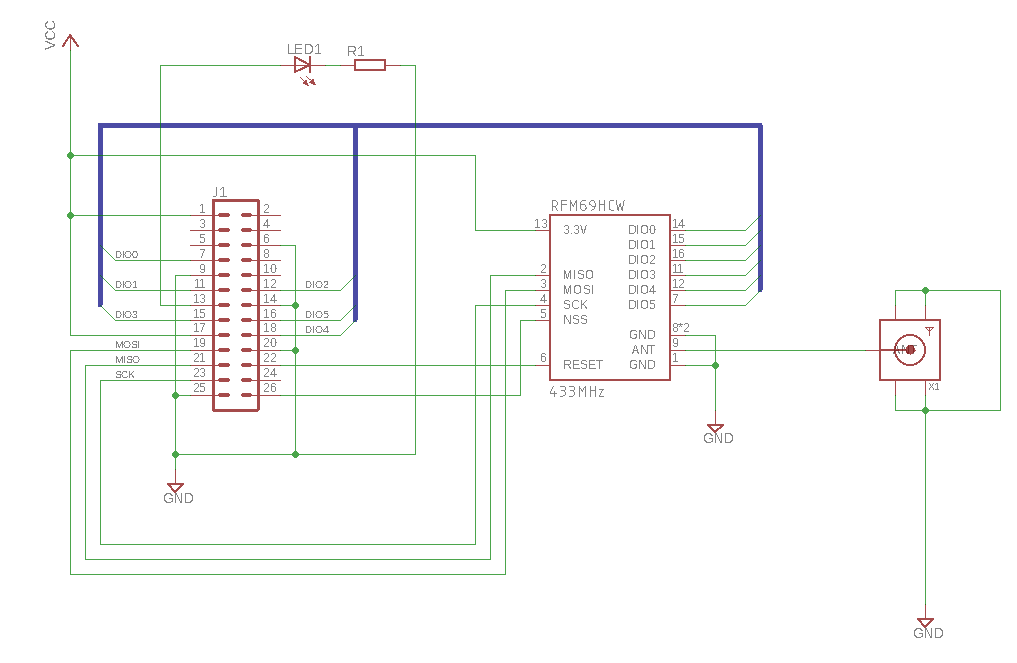
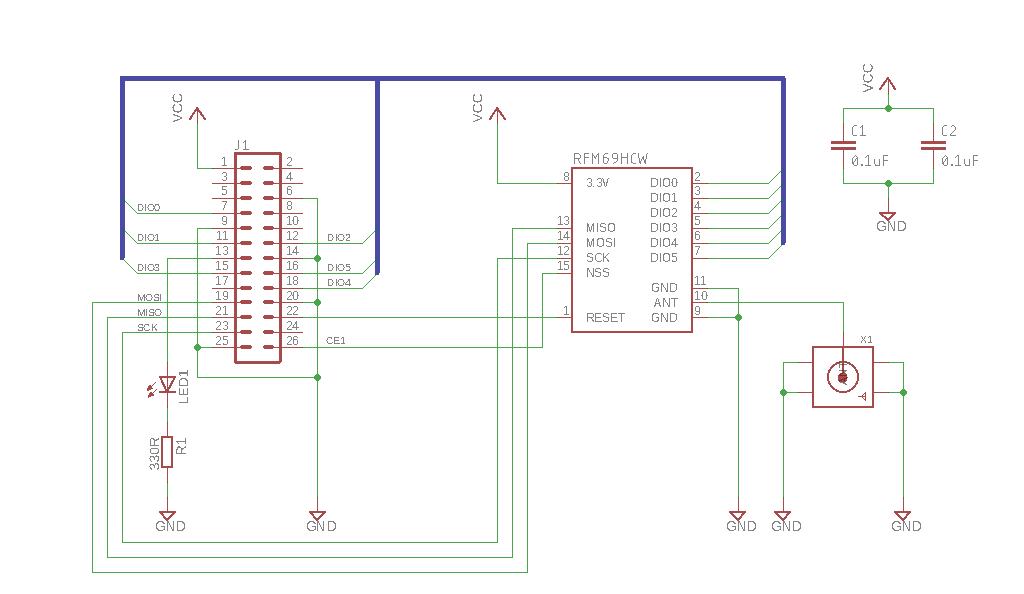
Updated parts lists

diff --git a/README.md b/README.md
@@ -312,13 +312,14 @@ manufacture a PCB from Aisler [here](https://aisler.net/p/MINCPAPN). Total cost
 including components would cost about £12 / €14 / $14 per unit. This is the
 bill of materials:
 
-| Name | Part               | Description |
-| ---- | ----------------   | ---- |
-| X1   |  SMA Connector     | Straight 50Ω PCB Mount Bulkhead Fitting SMA Connector, Solder Termination |
-| U1   |  Hope RFM69HCW     | HopeRF RF Transceiver RFM69W-433-S2 433 MHz, FSK, GFSK, GMSK, MSK, OOK, 1.8 → 3.6V |
-| R1   |  330Ω ±5% 0.25W    | Carbon Resistor, 0.25W, 5%, 330R |
-| LED1 |  Generic LED       | LED, 5mm (T-1 3/4) Through Hole package |
-| J1   |  26 Way PCB Header | 2.54mm Pitch 13x2 Rows Straight PCB Socket |
+| Name  | Part               | Description |
+| ----- | ------------------ | ---- |
+| X1    |  SMA Connector     | Straight 50Ω PCB Mount Bulkhead Fitting SMA Connector, Solder Termination |
+| U1    |  Hope RFM69HCW     | HopeRF RF Transceiver RFM69W-433-S2 433 MHz, 1.8 → 3.6V |
+| R1    |  330Ω ±5% 0.25W    | Carbon Resistor, 0.25W, 5%, 330R |
+| C1,C2 |  0.1uF             | Ceramic Decoupling Capacitors, 0.1uF |
+| LED1  |  Generic LED       | LED, 5mm (T-1 3/4) Through Hole package |
+| J1    |  26 Way PCB Header | 2.54mm Pitch 13x2 Rows Straight PCB Socket |
 
 Here's the schematic:
 
